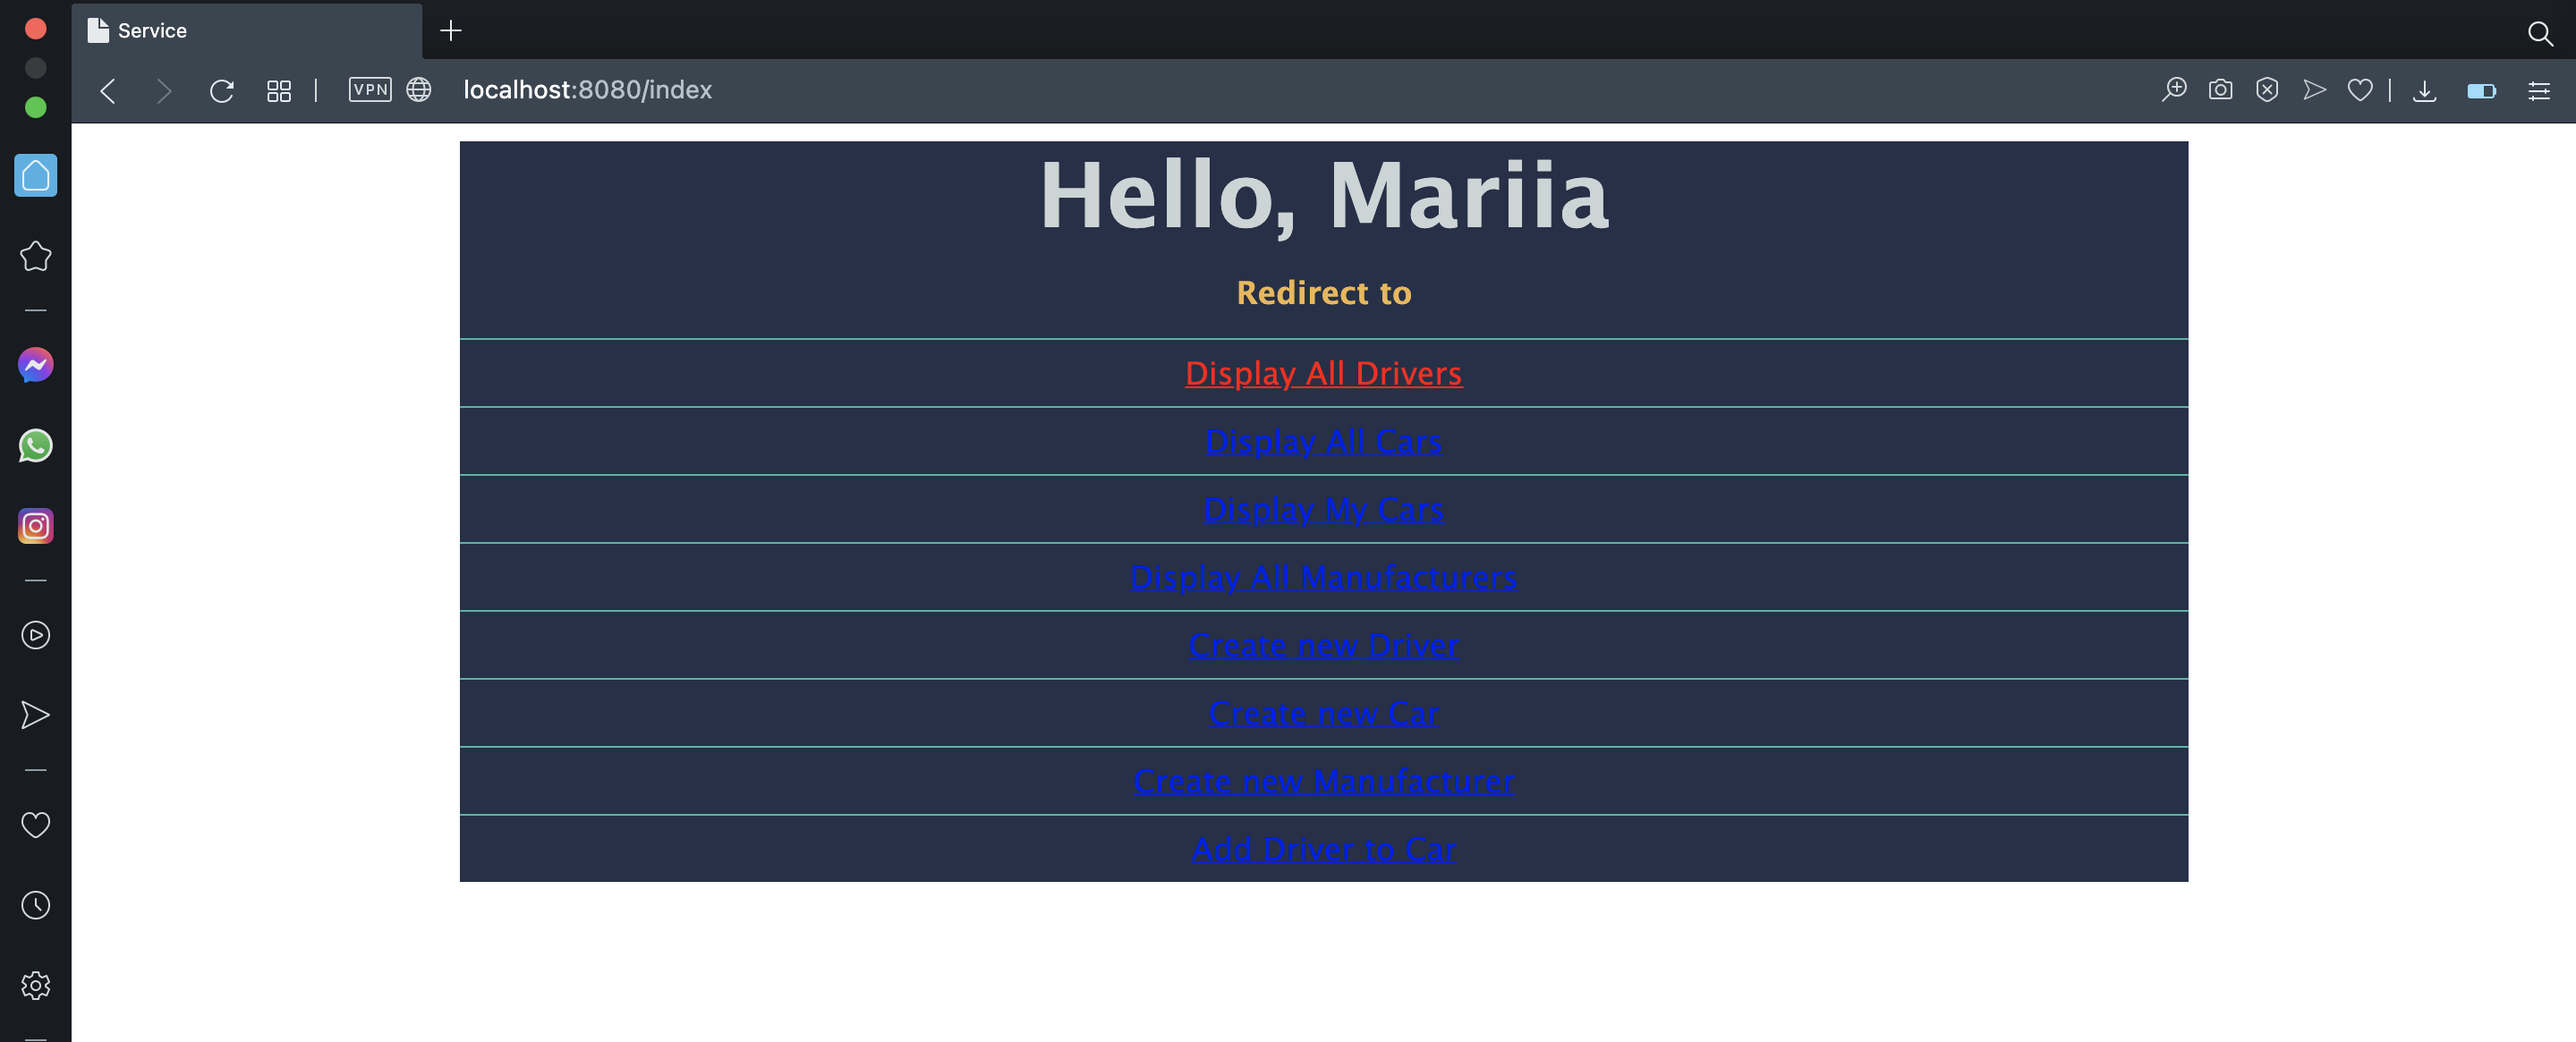
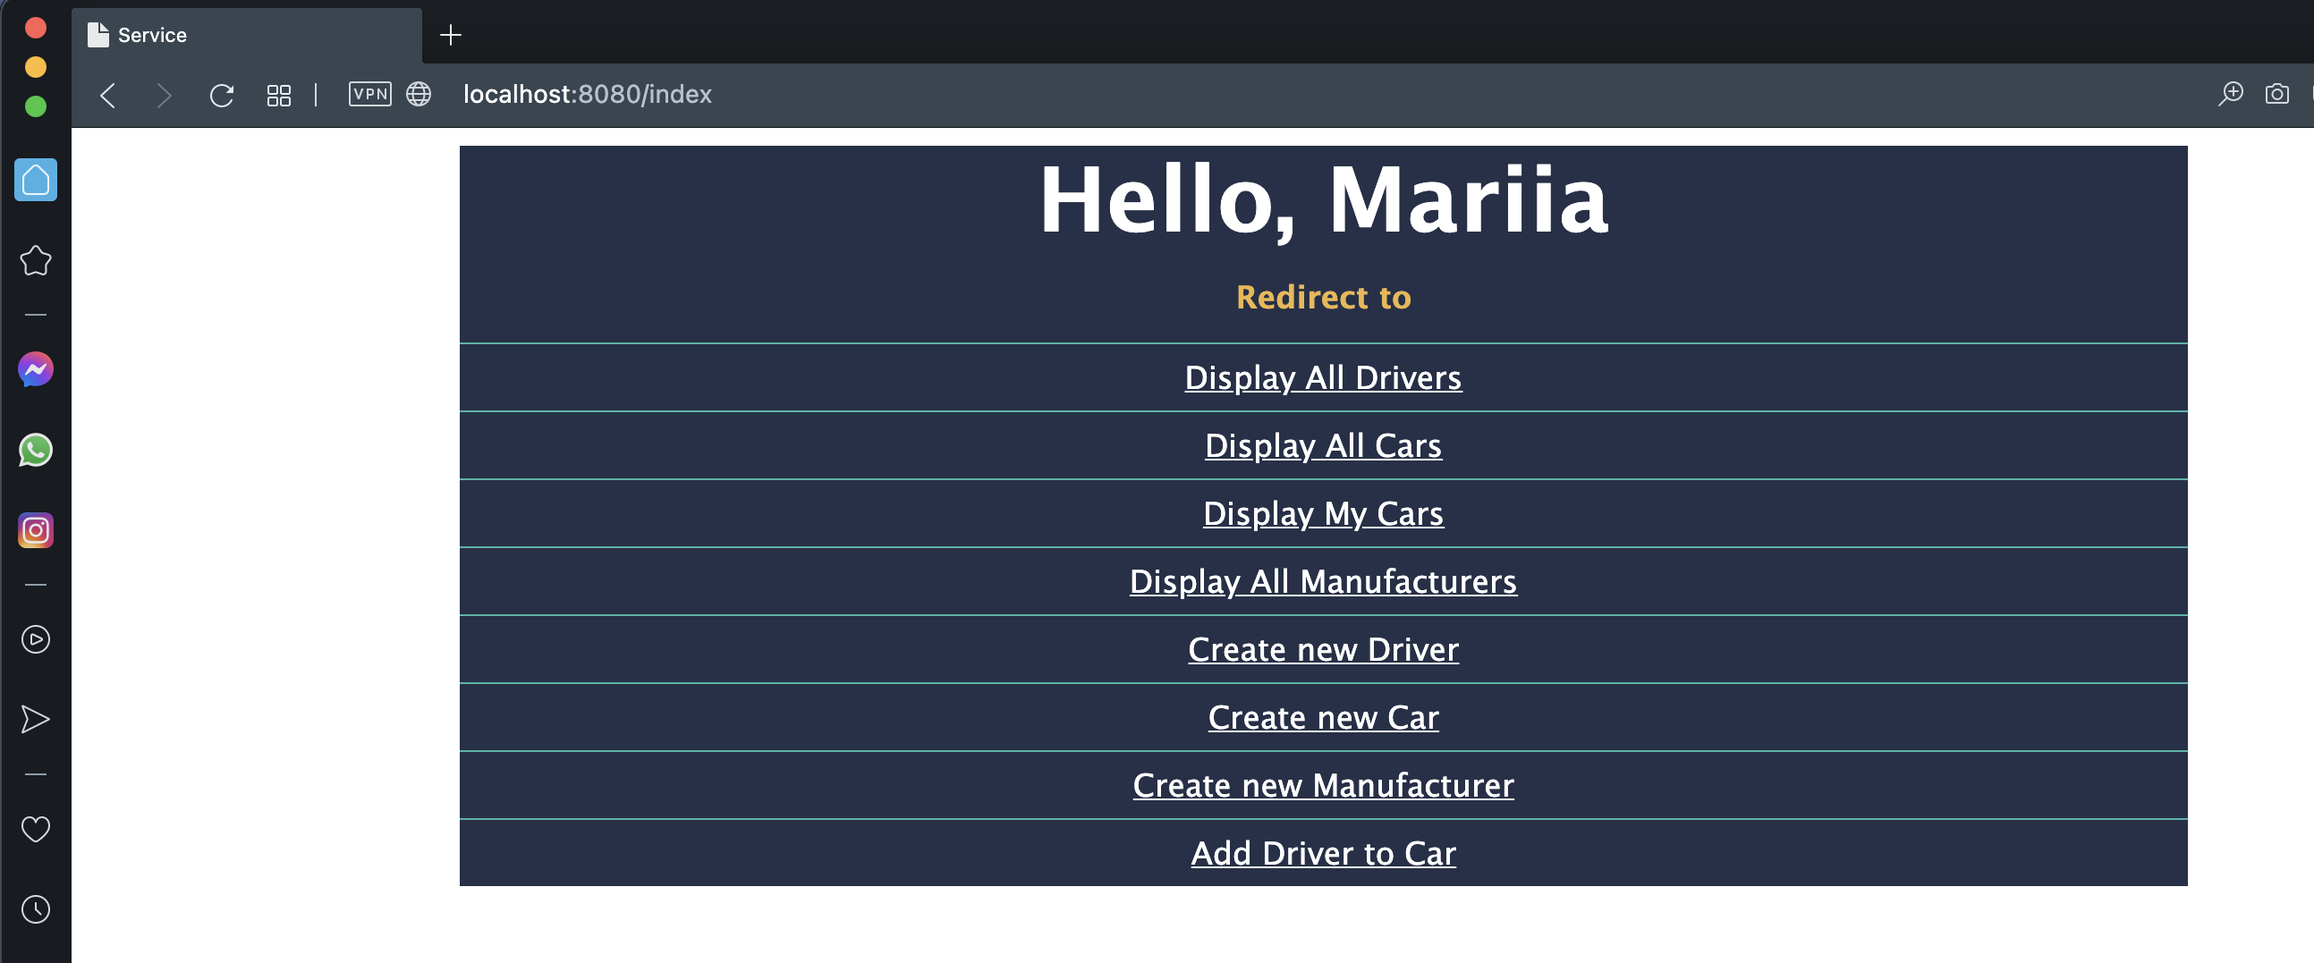
added changes

Changed region(s): [[0.0, 0.0, 1.0, 1.0]]

diff --git a/src/main/webapp/WEB-INF/views/css/table_dark.css b/src/main/webapp/WEB-INF/views/css/table_dark.css
@@ -1,12 +1,19 @@
 .table_dark {
     font-family: "Lucida Sans Unicode", "Lucida Grande", Sans-Serif;
     width: 70%;
-    color: #CAD4D6;
+    color: white !important;
     font-size: 40px;
     text-align: center;
     border-collapse: collapse;
     background: #252F48;
     margin: auto;
+}
+.bottom {
+    color: white;
+    background-color: #252F48;
+}
+a:hover {
+    color: red;
 }
 .table_dark th {
     color: #EDB749;

diff --git a/README.md b/README.md
@@ -3,18 +3,22 @@
 1.About The Project
 2.Built With
 3.Getting Started
-4.Project improvement
+4.Project Improvement
 ~~~~
 
 #### 1.About The Project
-3-tier architecture WEB-project with Database connection.
+This project is about work of taxi service. You can register or login as driver.
+Driver behaves as User. Also you can add to database new manufacturer, new car, new driver, 
+add driver to car. One car can have several drivers. 
+In main menu you also find such actions: display all manufacturers and cars, display your cars, 
+display all drivers. Only authenticated users can do requests because of Filter.
+
+From the technical point of view it is 3-tier architecture WEB-project with Database connection.
 ~~~~
 - Controller-layer: processing requests from the user and generating a response
 - Service-layer: business logic of taxi service work, authentication
 - DAO-layer: realization of CRUD-methods, custom methods
 ~~~~
-
-***Only authorized user can make requests. Driver behaves as User.
 
 
 ![pic](login_page.png)
@@ -57,14 +61,12 @@ Technologies used:
 5. Run Tomcat configuration
 ~~~~
 
-#### 4.Project improvement
-1. Write tests for project
+#### 4.Project Improvement
+1. One of the ways to improve this project is create test classes and unit tests for 
+   checking the work of each service to cover code lines at least on 80%. 
 
 
 
 
-
-
-
-
+   
 [index page]: http://localhost:8080/index
